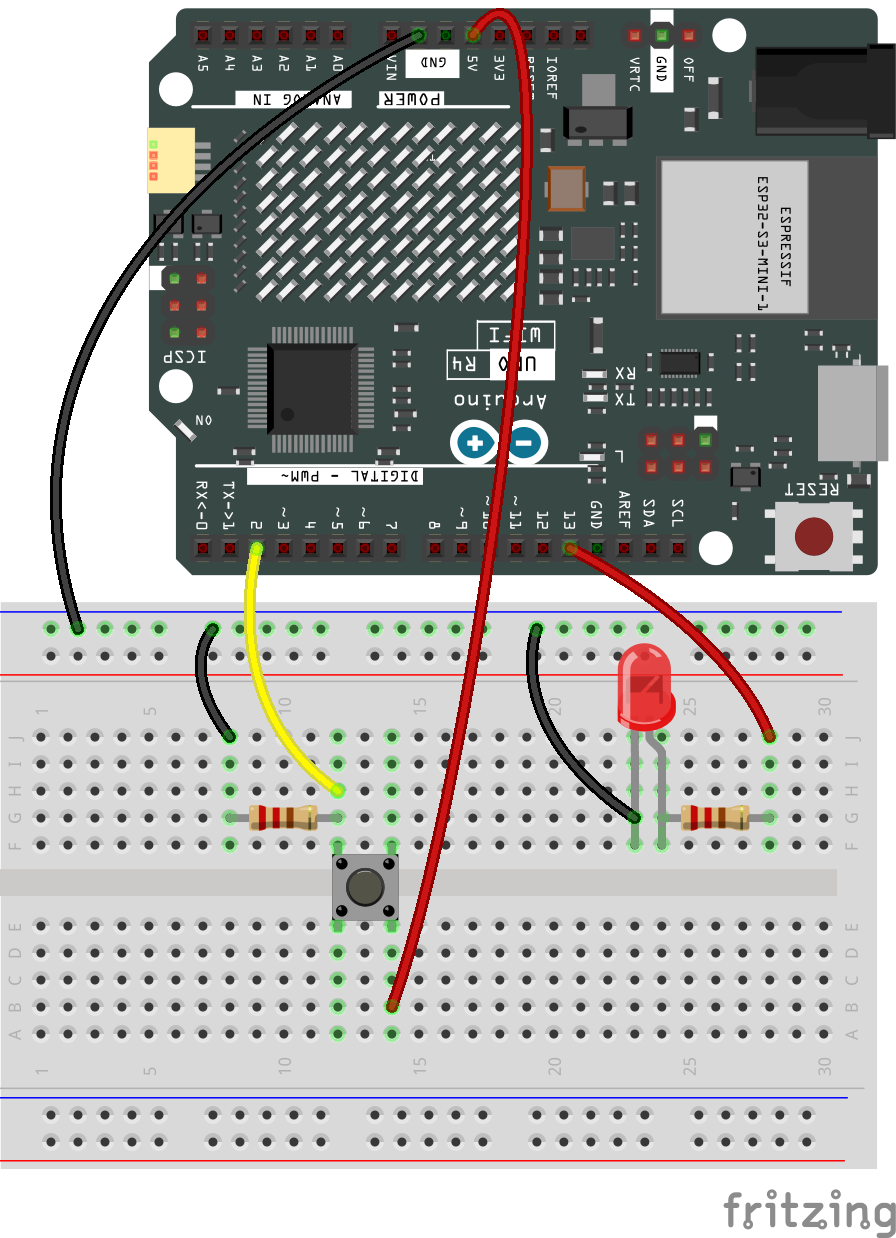
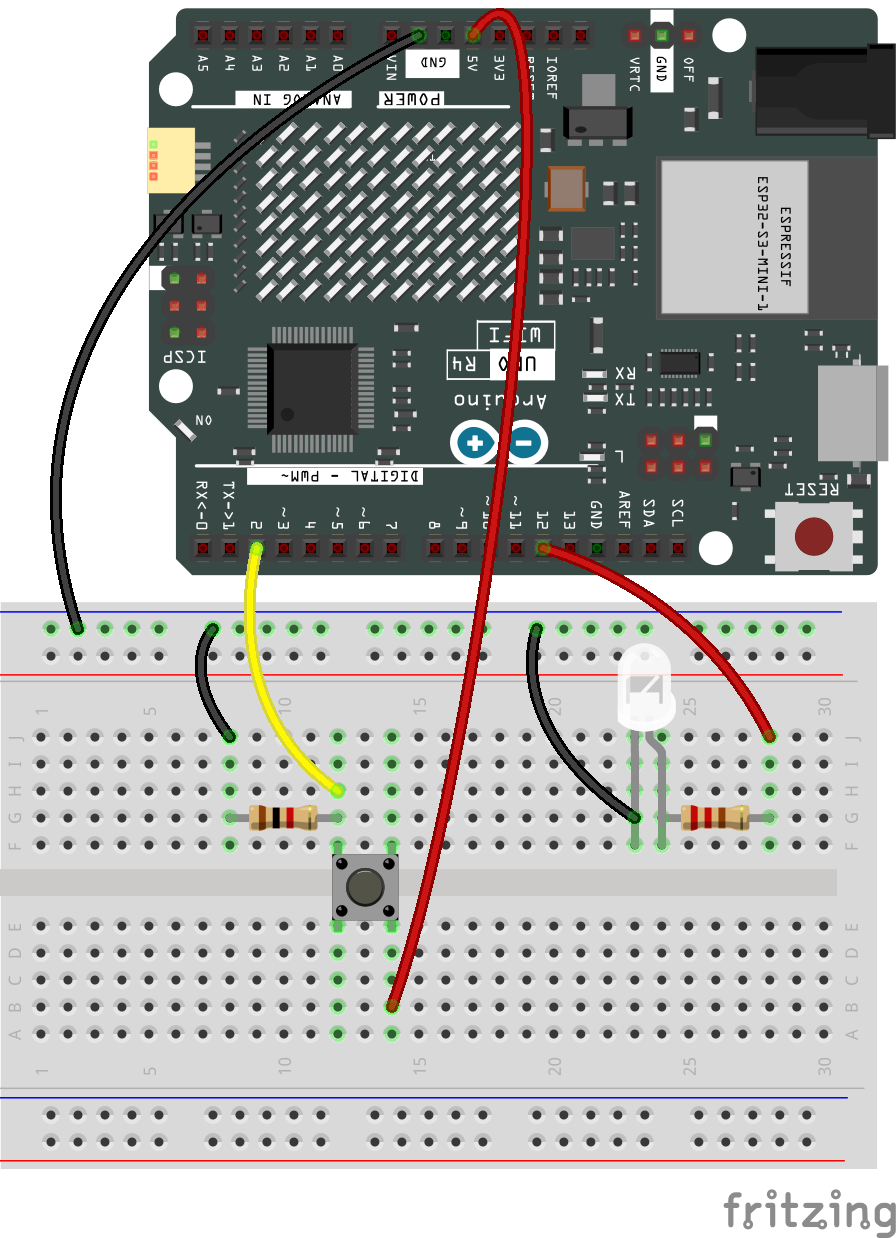
fix(butonpin): Use pin 12

diff --git a/toggle_button_debounce/README.md b/toggle_button_debounce/README.md
@@ -1,4 +1,8 @@
-# Why debouncing a button
+# Toggle Button and Debounce
+
+![](toggle_button_debounce_bb.png)
+
+## Why debouncing a button
 
 Debouncing is often necessary for pushbuttons and switches.
 
